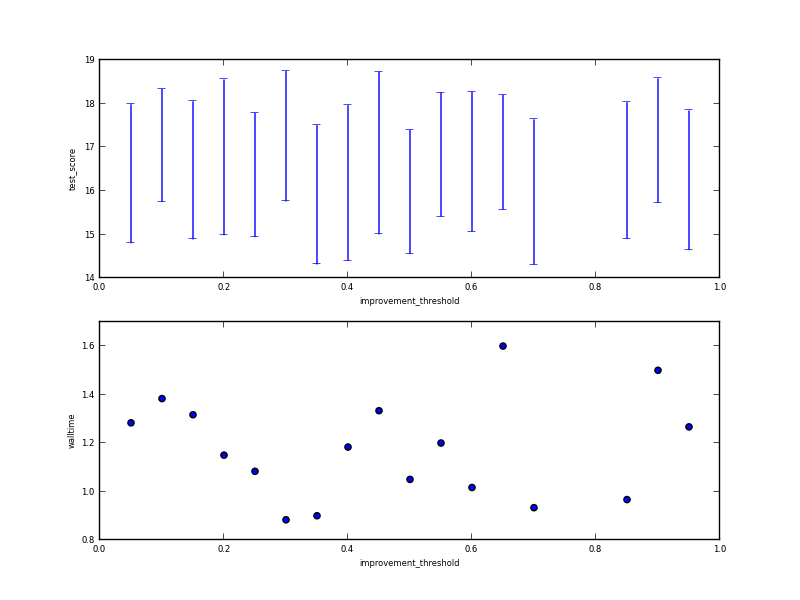
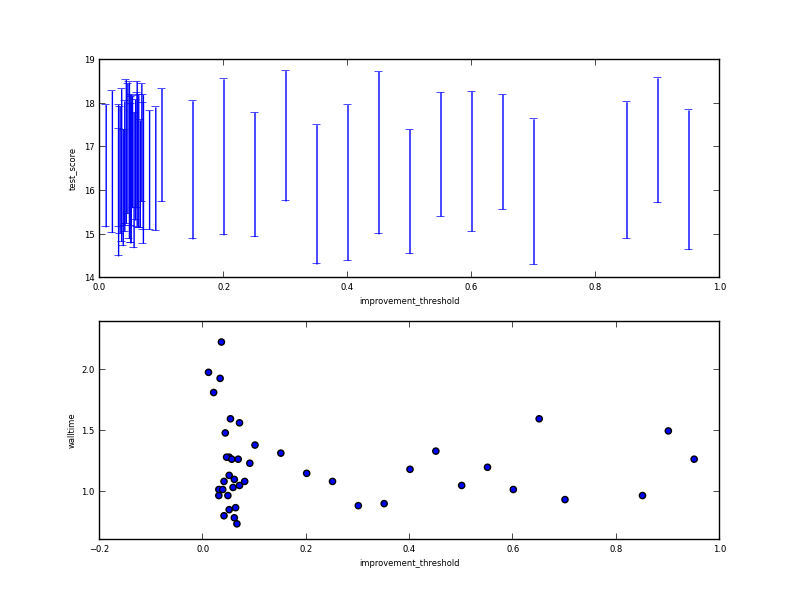
Update to optimizer

diff --git a/code/optimization.py b/code/optimization.py
@@ -2,12 +2,13 @@ import string
 import subprocess
 import sys
 from collections import OrderedDict
+import numpy as np
 # Mlp Optimization 
 # Purpose: To submit jobs for the mlp to the batch scheduler
 #          Ideally will work with any of the NN algorithms
 LINEAR = 0
 EXPONENTIAL = 1
-CHANGES = 17
+CHANGES = 1
 PERCENT = 5
 if(len(sys.argv) > 1):
       input = sys.argv[1]
@@ -19,10 +20,11 @@ if(len(sys.argv) > 1):
                   n_hidden = 50,
                   n_epochs = 10000,
                   batch_size = 600,
-                  patience = 10000,
+                  #patience = 10000,
+                  patience = 10,
                   patience_increase = 2,
-                  improvement_threshold = 0.05,
-                  #improvement_threshold = 0.995,
+                  #improvement_threshold = 0.05,
+                  improvement_threshold = 0.995,
                   submit_threshold = 0.5
                   )
             pbs_name = " mlp_batch.pbs"
@@ -95,19 +97,32 @@ for key,value in parameters.items():
 # automatically do linear 
 
 # Just do 20% change for all parameters default?
-
 # A generic talk function for qsub
-iter_key = "improvement_threshold"
+#iter_key = "improvement_threshold"
 #iter_key = "batch_size"
+iter_key = "patience"
 difference = float(parameters[iter_key]*PERCENT/100.0)
 newvalue = parameters[iter_key] - int(CHANGES/2)*difference 
+centre = parameters[iter_key]
+num = 2*CHANGES+1
+parameter_updates = np.zeros(num)
+if (EXPONENTIAL):
+    start = centre*(10**(-CHANGES))
+    stop = centre*(10**CHANGES)
+    print "Exponential: logspace(start = "+str(start)+", stop = "+str(stop)+", num = "+str(num)+")"
+    for i in range(num):
+      parameter_updates[i] = start*(10**i)
+else:
+    start = centre-CHANGES*PERCENT
+    stop = centre+CHANGES*PERCENT
+    parameter_updates = np.linspace(start,stop, num = num)
 
-for j in range(CHANGES):
-      parameters[iter_key] = newvalue 
+for j in parameter_updates:
+      parameters[iter_key] = j
       i = 1
       talk = "qsub -v"
       for key,value in parameters.items():
-            print key+str(value)
+            print key+": "+str(value)
             talk += "input"+str(i)+"="+str(value)+","
             i += 1
       talk = talk[:-1]
